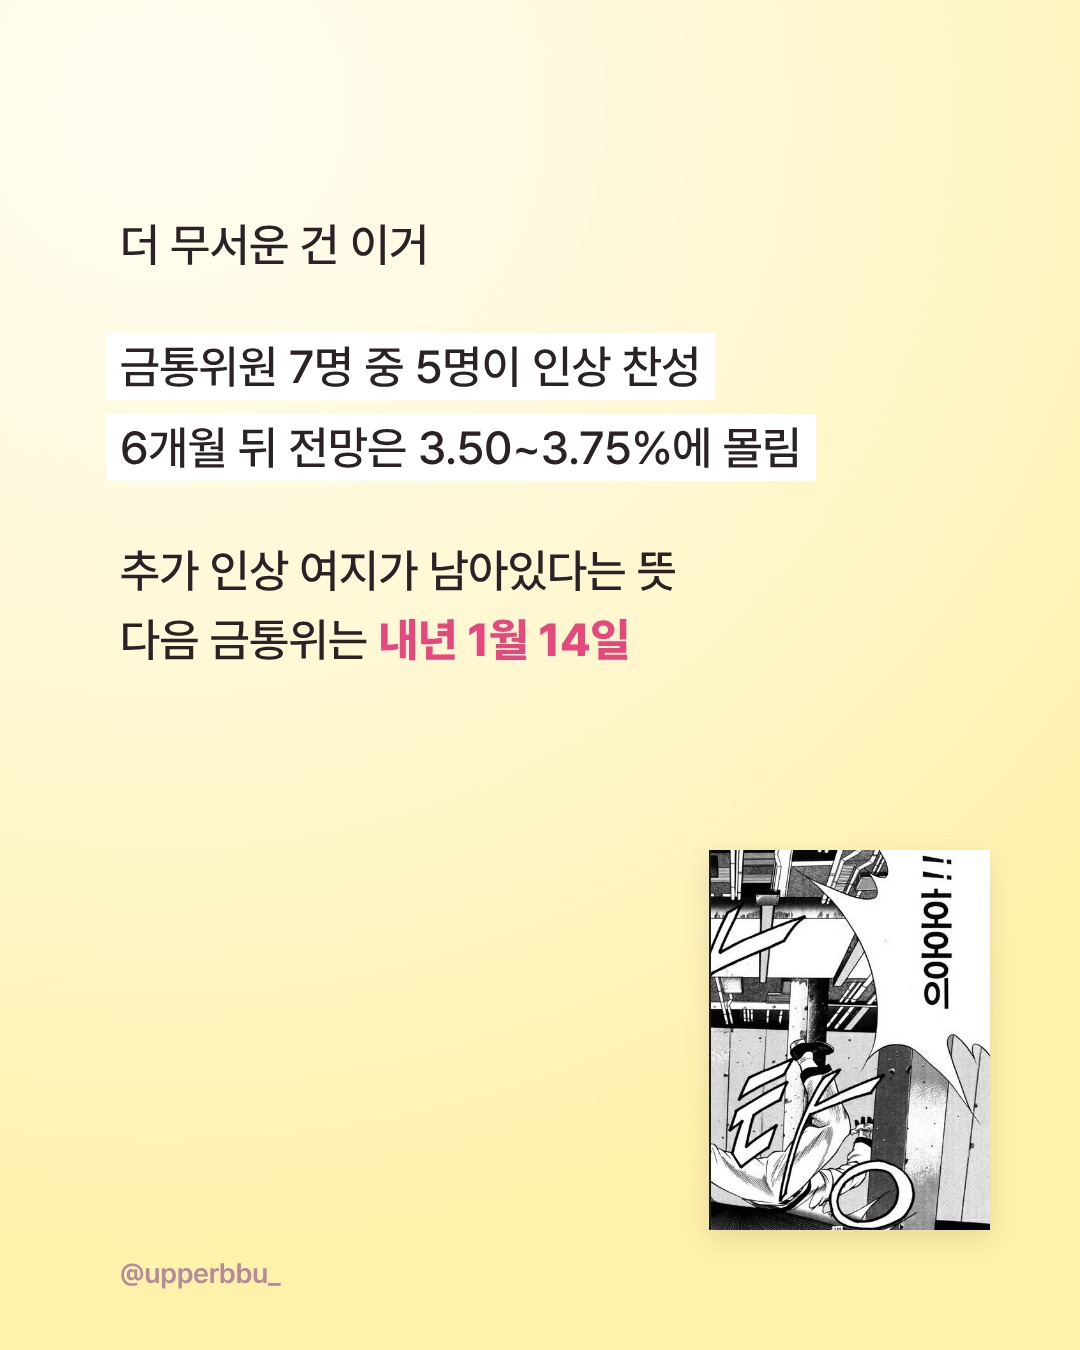
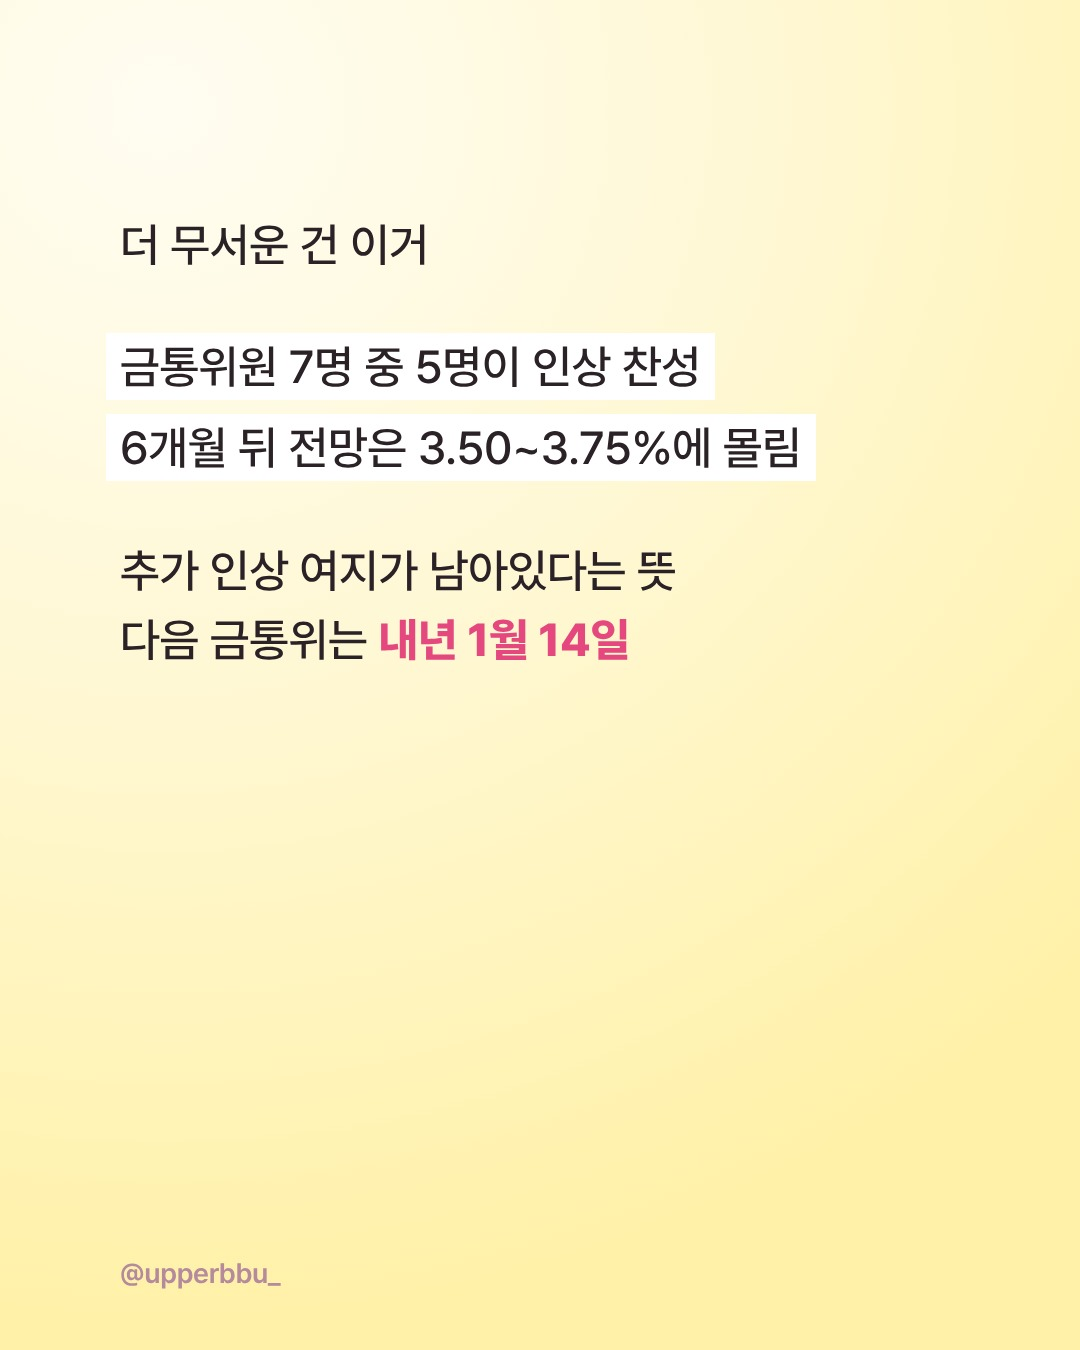
Meme cover as default; 11/26 cover uses meme
Claude-Session: https://claude.ai/code/session_01FfMhJ4kH7Xvbi7mmnKWXqm

Changed region(s): [[0.6417, 0.6222, 0.9167, 0.9333]]

diff --git a/notes.css b/notes.css
@@ -36,3 +36,12 @@ body { width: 1080px; background: #fff; }
 .cover .labels span:nth-child(1) { background: var(--p-yellow); }
 .cover .labels span:nth-child(2) { background: var(--p-pink); margin-left: 120px; }
 .cover .labels span:nth-child(3) { background: #fff; }
+
+/* ── 밈 표지: 파스텔 배경 + 큰 밈 + 진한 제목 ── */
+.cover.meme-cover { background: radial-gradient(120% 90% at 15% 8%, #FFF8FA 0%, var(--p-pink-2) 45%, var(--p-pink) 100%); }
+.cover.meme-cover::before { display: none; }
+.cover.meme-cover .big-meme { top: 150px; left: 50%; transform: translateX(-50%) rotate(-2deg); width: 620px; height: auto; max-height: 600px; object-fit: contain; border: 10px solid #fff; box-shadow: 0 14px 40px rgba(120,60,90,.18); }
+.cover.meme-cover .bubble { top: 40px; right: 40px; z-index: 2; padding: 30px 40px; }
+.cover.meme-cover .labels span:nth-child(2) { background: #fff; }
+.cover.meme-cover .title { color: var(--ink); text-shadow: none; bottom: 330px; font-size: 104px; }
+.cover.meme-cover .labels { bottom: 120px; }

diff --git a/render_notes.js b/render_notes.js
@@ -29,8 +29,10 @@ const meme = (_, side, file, hint) => {
     if (n.cover) {
       // 표지: { "cover": { "bg": "assets/x.jpg", "bubble": "...", "title": "줄1<br>줄2", "labels": ["...", "..."] } }
       const c = n.cover;
-      const bg = c.bg ? `background-image:url('file://${path.resolve(base, c.bg)}')` : 'background:#f4c6d6';
-      section = `<section class="cover" style="${bg}">
+      // 밈 표지: "meme": "memes/파일" → 파스텔 배경 위에 큰 밈 (사진 표지는 "bg")
+      const bg = c.meme ? '' : c.bg ? `background-image:url('file://${path.resolve(base, c.bg)}')` : 'background:#f4c6d6';
+      section = `<section class="cover${c.meme ? ' meme-cover' : ''}" style="${bg}">
+        ${c.meme ? `<img class="big-meme" src="file://${path.resolve(base, c.meme)}">` : ''}
         ${c.bubble ? `<div class="bubble">${c.bubble}</div>` : ''}
         <div class="title">${c.title}</div>
         <div class="labels">${(c.labels || []).map(l => `<span>${l}</span>`).join('')}</div></section>`;

diff --git a/STYLE.md b/STYLE.md
@@ -29,8 +29,9 @@
 
 ## 형식 (2026-11-22 변경, 기본)
 - **톤앤매너 (2026-11-22)**: 파스텔 핑크 `#FFD9E6` + 파스텔 노랑 `#FFF1A8`, 강조 핑크 `#E5487E`. 본문 장은 핑크·노랑 배경을 번갈아
-- **표지**: 사진 꽉 채우기 + 말풍선(공감 한마디) + 큰 흰 제목 2줄(타이틀처럼) + 파스텔 노랑·핑크 띠 부제 2줄. notes.json 첫 장에 `{"cover": {bg, bubble, title, labels}}`
-  - 표지 사진은 사용자 실제 사진이 가장 좋음 (없으면 기존 assets 재사용)
+- **표지 (기본: 밈 표지, 2026-11-26~)**: 파스텔 핑크 배경 + 가운데 큰 한국 밈(흰 테두리, 살짝 기울임) + 오른쪽 위 말풍선(공감 한마디) + 진한 큰 제목 2줄 + 노랑·흰 띠 부제 2줄. 사람 사진 쓰지 않음.
+  - notes.json 첫 장: `{"cover": {"meme": "memes/cover.jpg", bubble, title, labels}}` — 밈은 `memes/library/`에서 주제 감정에 맞게 골라 `weeks/<날짜>/memes/cover.jpg`로 복사
+  - (예전 사진 표지는 `"bg": "assets/x.png"`로 아직 렌더 가능)
 - **본문**: 일기체 글 + 핵심 문단만 흰 박스 + 오른쪽 아래 작은 한국 밈
 - 렌더: `node render_notes.js weeks/<날짜>/notes.json weeks/<날짜>/notes_out` (1080×1350)
 - 문법: `<p>` 문단, `<span class="box">` 흰 박스, `<span class="em">` 핑크 강조, `{{meme:파일명|안내}}` 밈 자리
